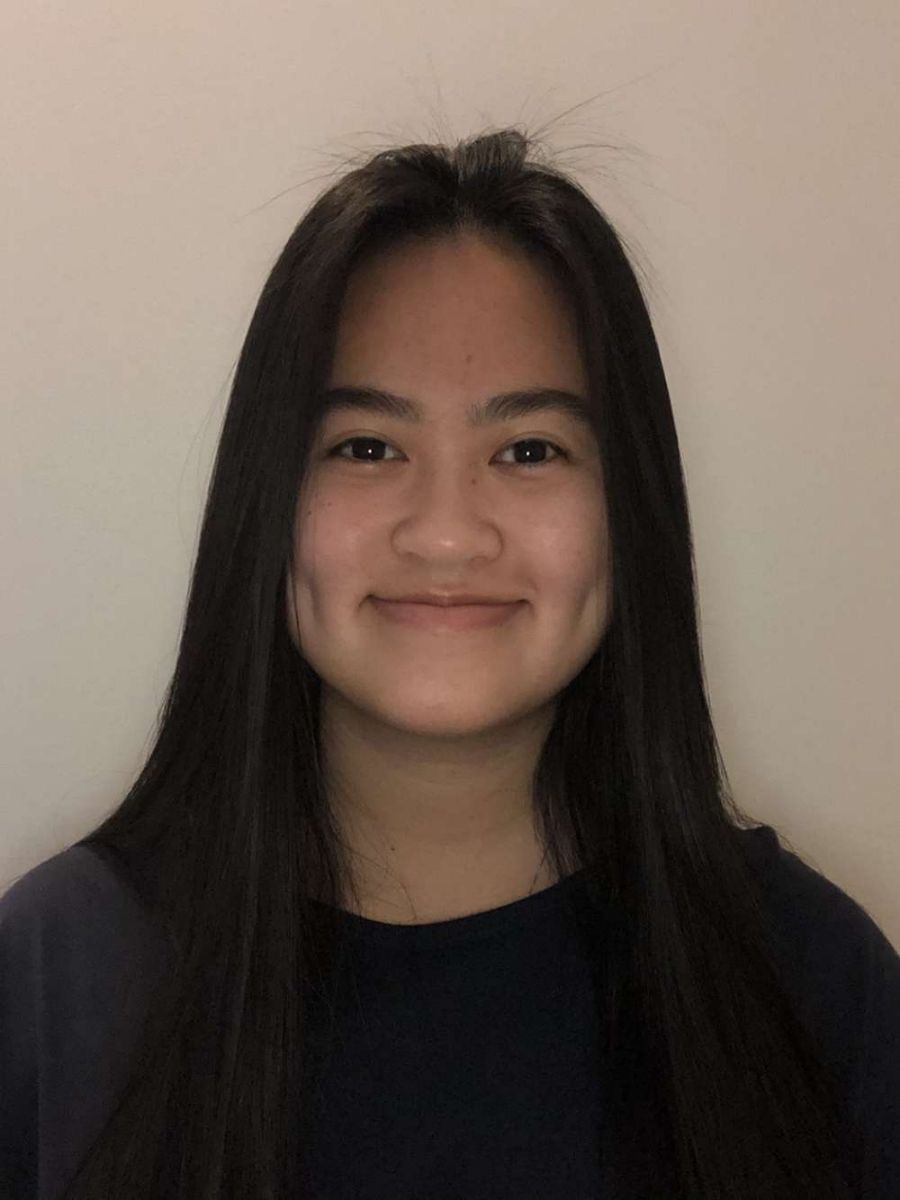
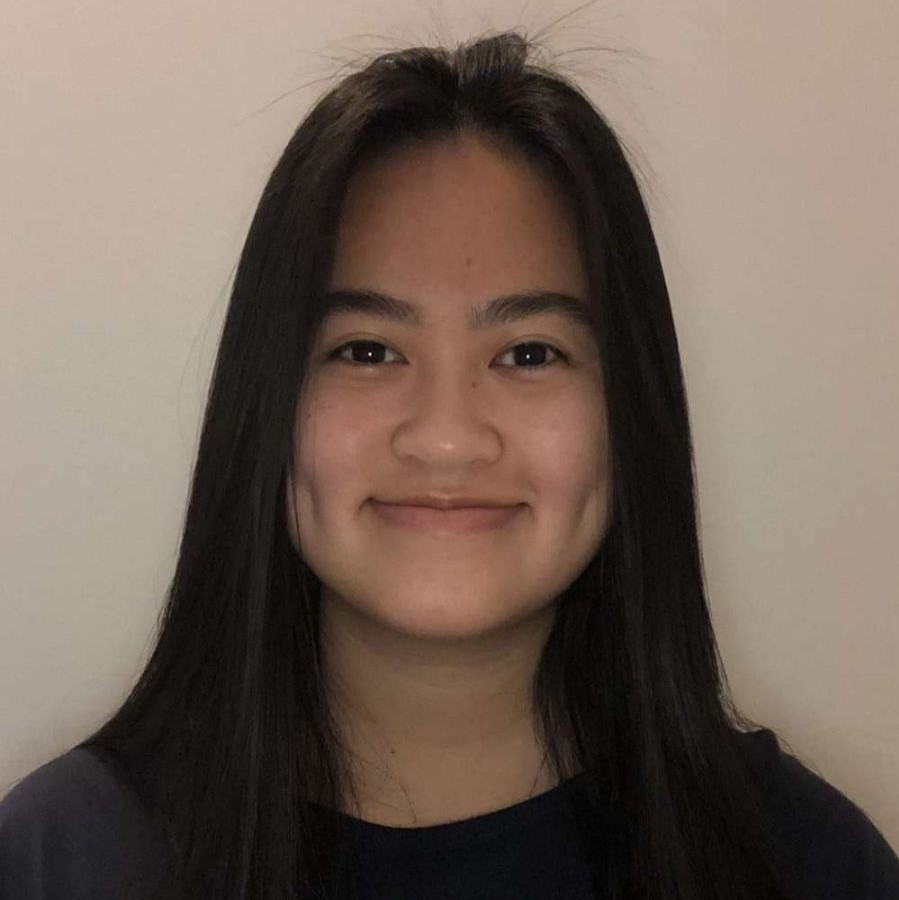
Update_Apr21_2023

diff --git a/public/data/lab/jacksonn.md b/public/data/lab/jacksonn.md
@@ -3,10 +3,10 @@ title: "Nolan Jackson"
 date: "2022-05-01"
 active: true
 credentials: "BSc Physics"
-position: "NSERC USRA summer student"
+position: "MSc Student"
 funding: "NSERC USRA"
-profile: "jacksonn.PNG"
+profile: "Nolan.jpg"
 undergrad: false
 ---
 
-This is an undergrad student studying bracytherapy in complex cell models, moving towards grad studies.
+Continuing graduate studies.

diff --git a/public/data/lab/eatons.md b/public/data/lab/eatons.md
@@ -3,10 +3,10 @@ title: "Sarah Eaton"
 date: "2022-09-01"
 active: true
 credentials: "BSc Physics"
-position: "NSERC USRA summer student; 4th year thesis student, JCURA recipient"
+position: "MSc Student"
 funding: "N/A"
-profile: "eatons.jpg"
+profile: "Sarah2023.jpg"
 undergrad: false
 ---
 
-Travelling across Canada
+Continuing graduate studies.
